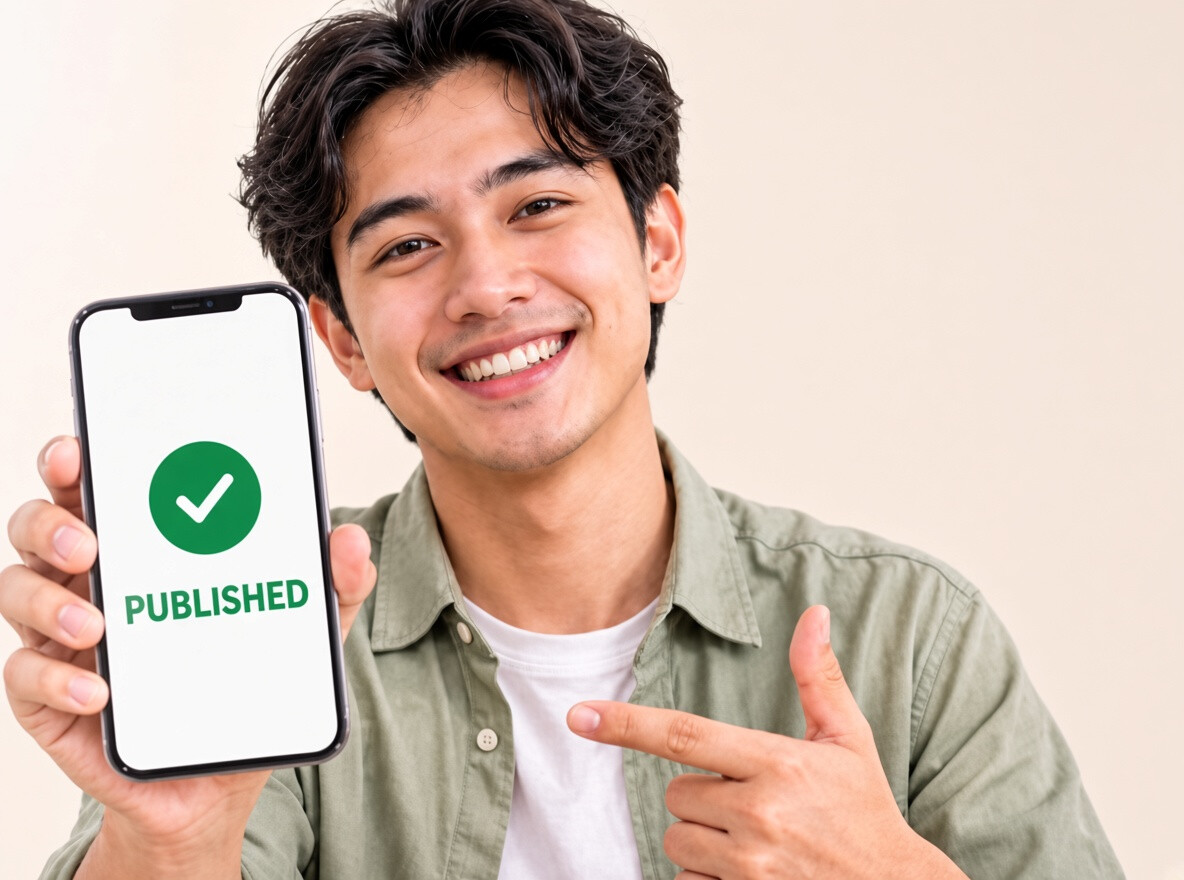
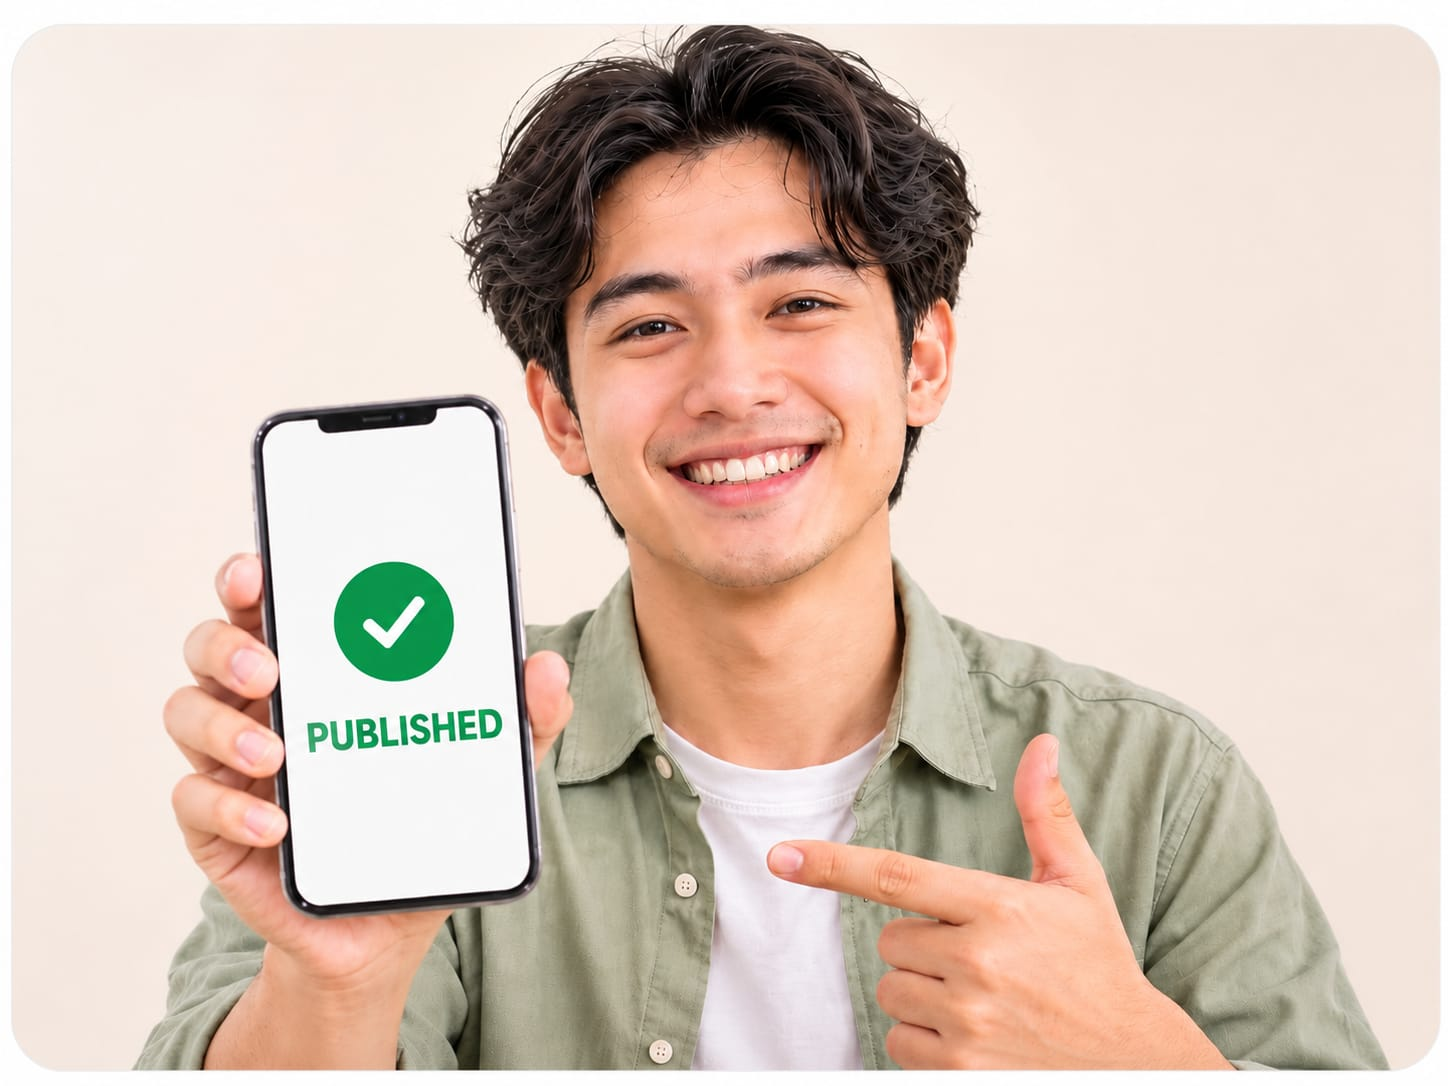
feat(publish-buku): ganti foto hero section Terbit Buku Sekali Klik

diff --git a/app/(publik)/publish-buku/page.tsx b/app/(publik)/publish-buku/page.tsx
@@ -62,8 +62,8 @@ export default async function Page() {
           <img
             className="publish-hero-foto"
             src="/aset/buku-hero.jpg"
-            width={1184}
-            height={880}
+            width={1448}
+            height={1086}
             alt="Penulis muda Indonesia tersenyum menunjukkan ponsel bertanda PUBLISHED."
           />
         </div>
